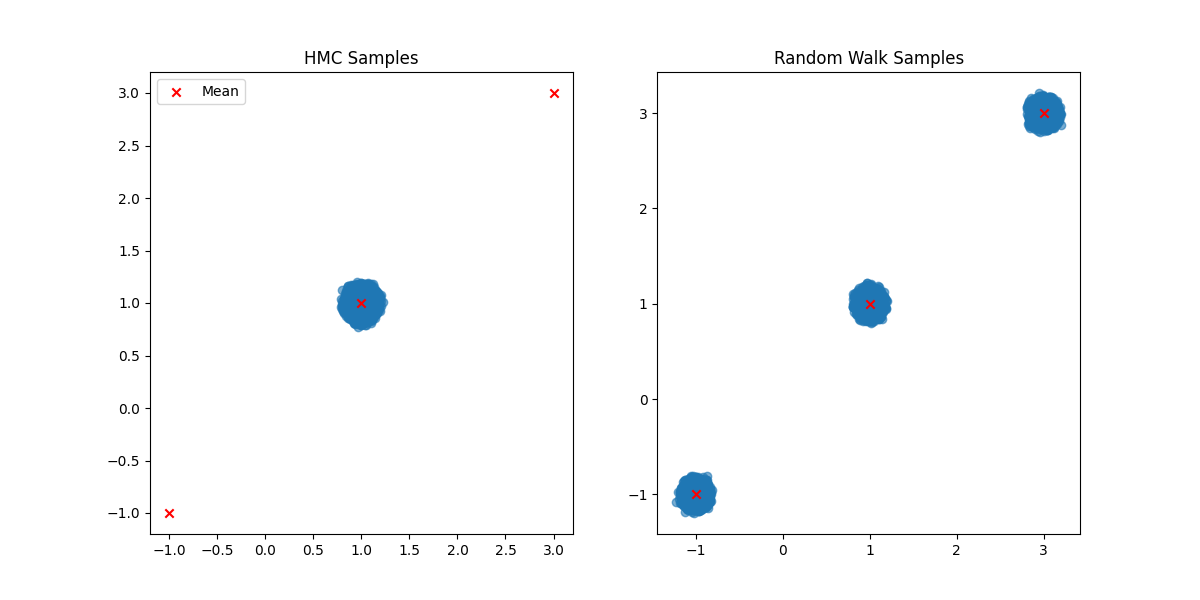
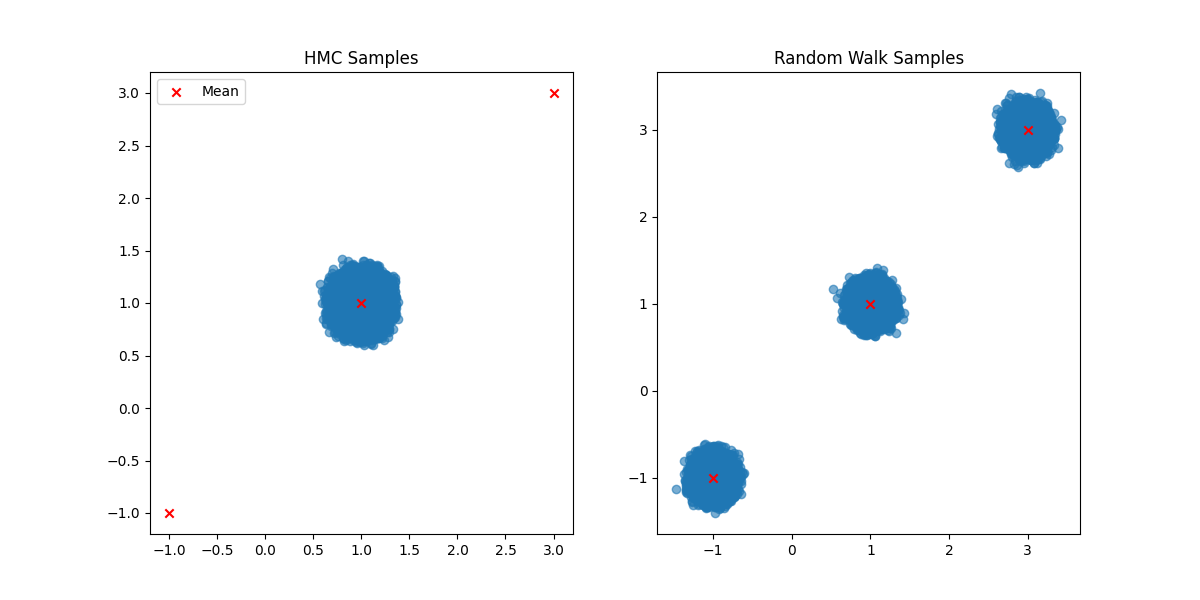
update

diff --git a/jaxhmc/mcmc.py b/jaxhmc/mcmc.py
@@ -44,31 +44,30 @@ class HMCConfig:
 def hmc_step(
     q: jax.Array,
     key: jax.Array,
+    # For tuning
     nesterov_state: NesterovState,
     welford_state: WelfordState,
     *,
     pot_vmap: callable,
     pot_grad_vmap: callable,
+    precm: jax.Array,
+    precm_L: jax.Array,
     steps: int,
     max_steps: int,
+    # For tuning
     nesterov_config: NesterovConfig,
     step_size_tuning: bool,
     momentum_tuning: bool,
 ):
     B, d = q.shape
 
-    p, key = sample_gaussian_from_precision(
-        B,
-        d,
-        welford_state.L,
-        key,
-    )
+    p, key = sample_gaussian_from_precision(B, d, precm_L, key)
 
     # We first simulate the dynamics
     p_new, q_new = leapfrog(
         p,
         q,
-        welford_state.C,
+        precm,
         pot_grad_vmap,
         steps=steps,
         max_steps=max_steps,
@@ -77,7 +76,7 @@ def hmc_step(
 
     # Compute the Hamiltonian
     def hamiltonian(p_st, q_st):
-        return pot_vmap(q_st) + 0.5 * jnp.einsum("bi, ij, bj->b", p_st, welford_state.C, p_st)
+        return pot_vmap(q_st) + 0.5 * jnp.einsum("bi, ij, bj->b", p_st, precm, p_st)
 
     H = hamiltonian(p, q)
     H_new = hamiltonian(p_new, q_new)
@@ -146,12 +145,12 @@ def run_hmc_chain(
 
 def update_welford_state(
     i: int,
-    carry: tuple[jax.Array, WelfordState, jax.Array],
+    carry: tuple[jax.Array, WelfordState, jax.Array, jax.Array, jax.Array],
     initial_chain_length: int,
     nesterov_state: NesterovState,
     **kwargs,
 ):
-    q, welford_state, key = carry
+    q, key, welford_state, precm, precm_L = carry
     new_q, key, _, new_ws = jax.lax.fori_loop(
         lower=0,
         upper=initial_chain_length * 2**i,
@@ -159,20 +158,24 @@ def update_welford_state(
             hmc_fori_step,
             step_size_tuning=False,
             momentum_tuning=True,
+            precm=precm,
+            precm_L=precm_L,
             **kwargs,
         ),
         init_val=(q, key, nesterov_state, welford_state),
     )
 
-    new_ws = new_ws.replace(
-        C=new_ws.L @ new_ws.L.T,
-    )
-    return new_q, new_ws, key
+    precm_L = new_ws.L
+    precm = precm_L @ precm_L.T
+
+    return new_q, key, new_ws, precm, precm_L
 
 
 def hmc_tune(
     pot_vmap: callable,
     pot_grad_vmap: callable,
+    precm: jax.Array,
+    precm_L: jax.Array,
     steps: int,
     max_steps: int,
     initial_position: jax.Array,
@@ -189,10 +192,6 @@ def hmc_tune(
         "nesterov_config": nesterov_config,
     }
 
-    welford_state = welford_state.replace(
-        C=welford_state.L @ welford_state.L.T,
-    )
-
     # We first tune the step size (fast tuning).
     (q, key, nesterov_state, welford_state), _ = run_hmc_chain(
         **kwargs,
@@ -201,6 +200,8 @@ def hmc_tune(
         welford_state=welford_state,
         nesterov_state=nesterov_state,
         initial_position=initial_position,
+        precm=precm,
+        precm_L=precm_L,
         step_size_tuning=True,
         momentum_tuning=False,
     )
@@ -212,7 +213,7 @@ def hmc_tune(
     # The i-th interval uses the momentum matrix M^{(i - 1)} obtained
     # from the prior interval.
 
-    (q, welford_state, key) = jax.lax.fori_loop(
+    (q, key, welford_state, precm, precm_L) = jax.lax.fori_loop(
         lower=0,
         upper=config.slow_tuning_phases,
         # carry = p, q, nesterov_state, welford_state
@@ -222,7 +223,7 @@ def hmc_tune(
             nesterov_state=nesterov_state,
             **kwargs,
         ),
-        init_val=(q, welford_state, key),
+        init_val=(q, key, welford_state, precm, precm_L),
     )
 
     # We further refine the step size based on the updated momentum.
@@ -233,11 +234,34 @@ def hmc_tune(
         welford_state=welford_state,
         nesterov_state=nesterov_state,
         initial_position=q,
+        precm=precm,
+        precm_L=precm_L,
         step_size_tuning=True,
         momentum_tuning=False,
     )
 
-    return (q, key, nesterov_state, welford_state)
+    return q, key, nesterov_state, precm, precm_L
+
+
+def init_states(config: HMCConfig, precm_L: jax.Array):
+    nesterov_state = NesterovState(
+        step_size=config.initial_step_size,
+        running_avg=jnp.log(config.initial_step_size),
+    )
+    nesterov_config = NesterovConfig(
+        mu=jnp.log(10 * config.initial_step_size),
+        gamma=20,  # Equivalent to 0.05 on Hoffman's works
+    )
+
+    welford_state = WelfordState(
+        L=precm_L,
+        mu=jnp.zeros((precm_L.shape[1],)),
+        # This should be actually null, as we need a pair of points for
+        # computing the covariance, however, letting s = 1 allows for a cleaner implementation
+        size=0,
+    )
+
+    return nesterov_state, nesterov_config, welford_state
 
 
 @jax.jit
@@ -249,23 +273,7 @@ def hmc(potential: Potential, initial_position: jax.Array, config: HMCConfig):
     # We first compute the Cholesky decomposition of the precision matrix
     precm_L = jnp.linalg.cholesky(config.initial_precm)
 
-    nesterov_state = NesterovState(
-        step_size=config.initial_step_size,
-        running_avg=jnp.log(config.initial_step_size),
-    )
-    nesterov_config = NesterovConfig(
-        mu=jnp.log(10 * config.initial_step_size),
-        gamma=20,
-    )
-
-    welford_state = WelfordState(
-        L=precm_L,
-        C=config.initial_precm,
-        mu=jnp.zeros((d,)),
-        # This should be actually null, as we need a pair of points for
-        # computing the covariance, however, letting s = 1 allows for a cleaner implementation
-        size=1,
-    )
+    nesterov_state, nesterov_config, welford_state = init_states(config, precm_L)
 
     # First step: Tuning.
     # We put a large limit to the number of steps, and mask indices exceeding the dynamic step size.
@@ -276,10 +284,12 @@ def hmc(potential: Potential, initial_position: jax.Array, config: HMCConfig):
         step_size=jnp.exp(nesterov_state.running_avg),
     )
 
-    q, key, nesterov_state, welford_state = hmc_tune(
+    q, key, nesterov_state, precm, precm_L = hmc_tune(
         pot_vmap=pot_vmap,
         pot_grad_vmap=pot_grad_vmap,
         steps=steps,
+        precm=config.initial_precm,
+        precm_L=precm_L,
         max_steps=max_steps,
         initial_position=initial_position,
         nesterov_state=nesterov_state,
@@ -296,6 +306,8 @@ def hmc(potential: Potential, initial_position: jax.Array, config: HMCConfig):
     _, (p, q) = run_hmc_chain(
         pot_vmap=pot_vmap,
         pot_grad_vmap=pot_grad_vmap,
+        precm=precm,
+        precm_L=precm_L,
         steps=steps,
         max_steps=steps,
         key=key,

diff --git a/jaxhmc/tuning.py b/jaxhmc/tuning.py
@@ -17,7 +17,7 @@ class NesterovConfig:
 
     goal: float = struct.field(pytree_node=False, default=0.8)
     gamma: float = struct.field(pytree_node=False, default=0.05)
-    to: float = struct.field(pytree_node=False, default=10)
+    to: float = struct.field(pytree_node=False, default=20)
     kappa: float = struct.field(pytree_node=False, default=0.75)
 
     log_min_step_size: float = struct.field(pytree_node=False, default_factory=lambda: jnp.log(1e-2))
@@ -36,7 +36,6 @@ def _step(carry: NesterovState, pa: float, config: NesterovConfig):
     eta = (carry.t + config.to) ** (-config.kappa)  # This avoids attributing excessive weight to initial iterations
     running_avg = (1 - eta) * carry.running_avg + eta * log_step
 
-    jax.debug.print("{}", jnp.exp(log_step))
     return NesterovState(
         running_avg=running_avg,
         error=error,
@@ -56,14 +55,13 @@ def nesterov_dual_averaging(
 @struct.dataclass
 class WelfordState:
     L: jax.Array
-    C: jax.Array
     mu: jax.Array
     size: jax.Array
 
 
 def cholesky_step(k: int, carry: tuple[jax.Array, jax.Array]):
     L, v = carry
-    _, d = L.shape[0], L.shape[1]
+    d = L.shape[1]
 
     L_kk = L[:, k, k]
     v_k = v[:, k]
@@ -86,7 +84,6 @@ def cholesky_step(k: int, carry: tuple[jax.Array, jax.Array]):
 def welford_step(welford_state: WelfordState, q: jax.Array):
     B, d = q.shape
     L = welford_state.L
-    C = welford_state.C
     mu = welford_state.mu
     n = welford_state.size
 
@@ -107,7 +104,6 @@ def welford_step(welford_state: WelfordState, q: jax.Array):
 
     return welford_state.replace(
         L=L_new,
-        C=C,
         mu=mu_new,
         size=n_new,
     )

diff --git a/examples/gaussian_mixture.py b/examples/gaussian_mixture.py
@@ -19,10 +19,10 @@ dim = initial_position.shape[1]
 # We the run the HMC
 means = jnp.vstack([jnp.ones(dim) + 2, jnp.ones(dim), jnp.ones(dim) - 2])
 
-potential = GaussianMixturePotential(means=means, sigma=0.05)
+potential = GaussianMixturePotential(means=means, sigma=0.1)
 config = HMCConfig(
-    initial_step_size=0.2,
-    max_path_len=2,
+    initial_step_size=0.1,
+    max_path_len=1,
     iterations=SAMPLES,
     initial_precm=jnp.eye(dim),
     key=key,
